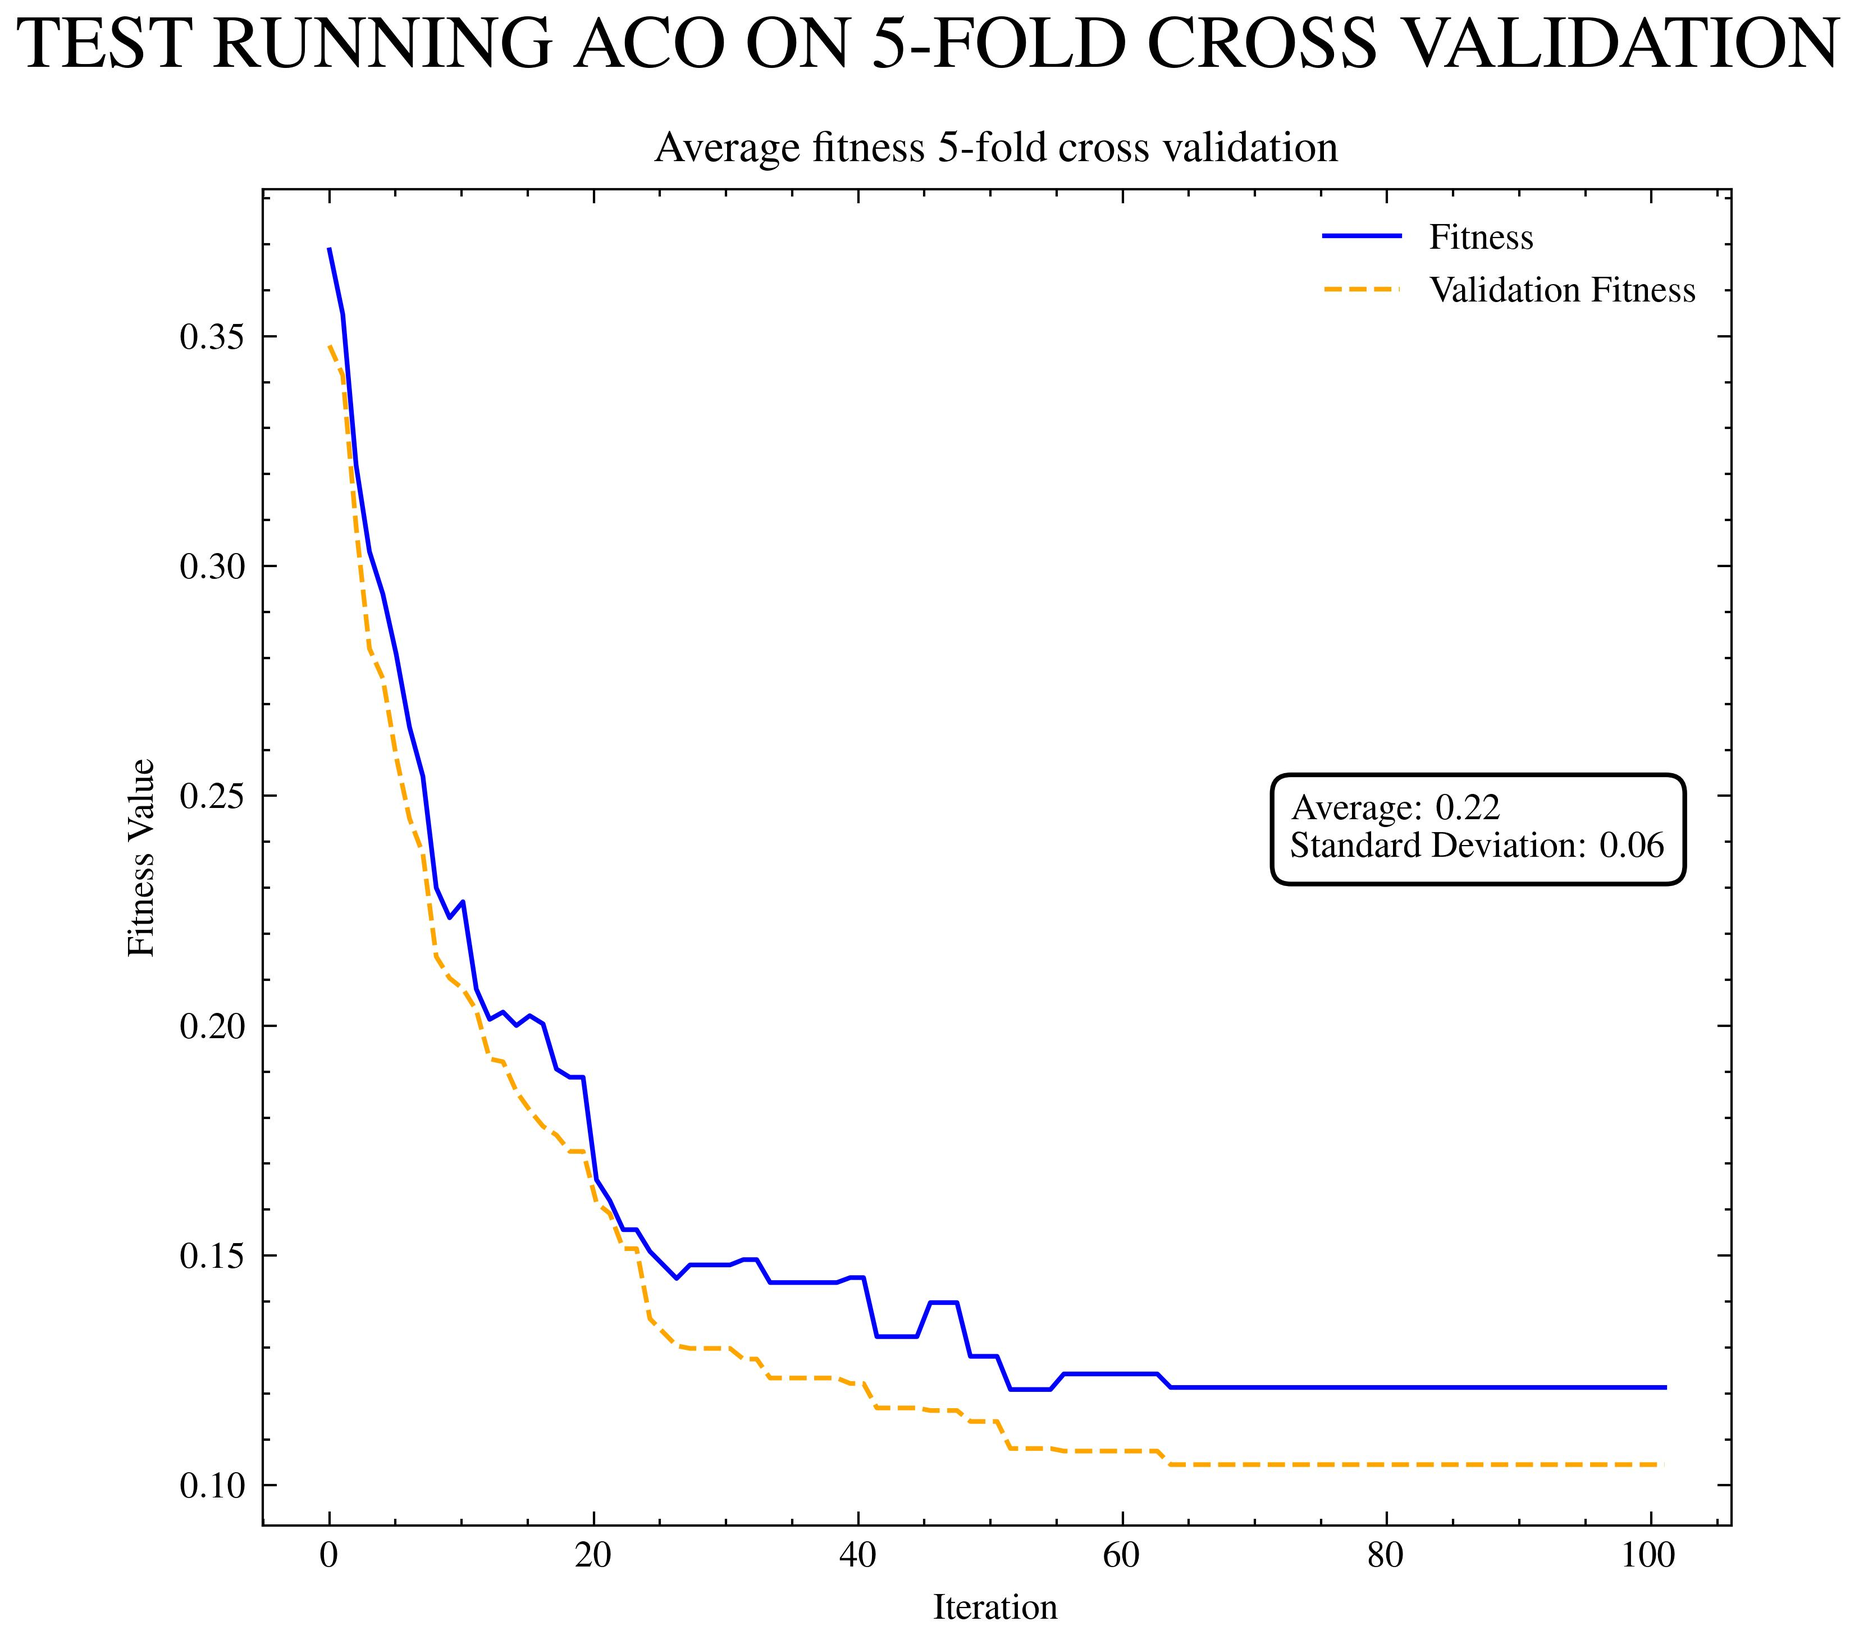
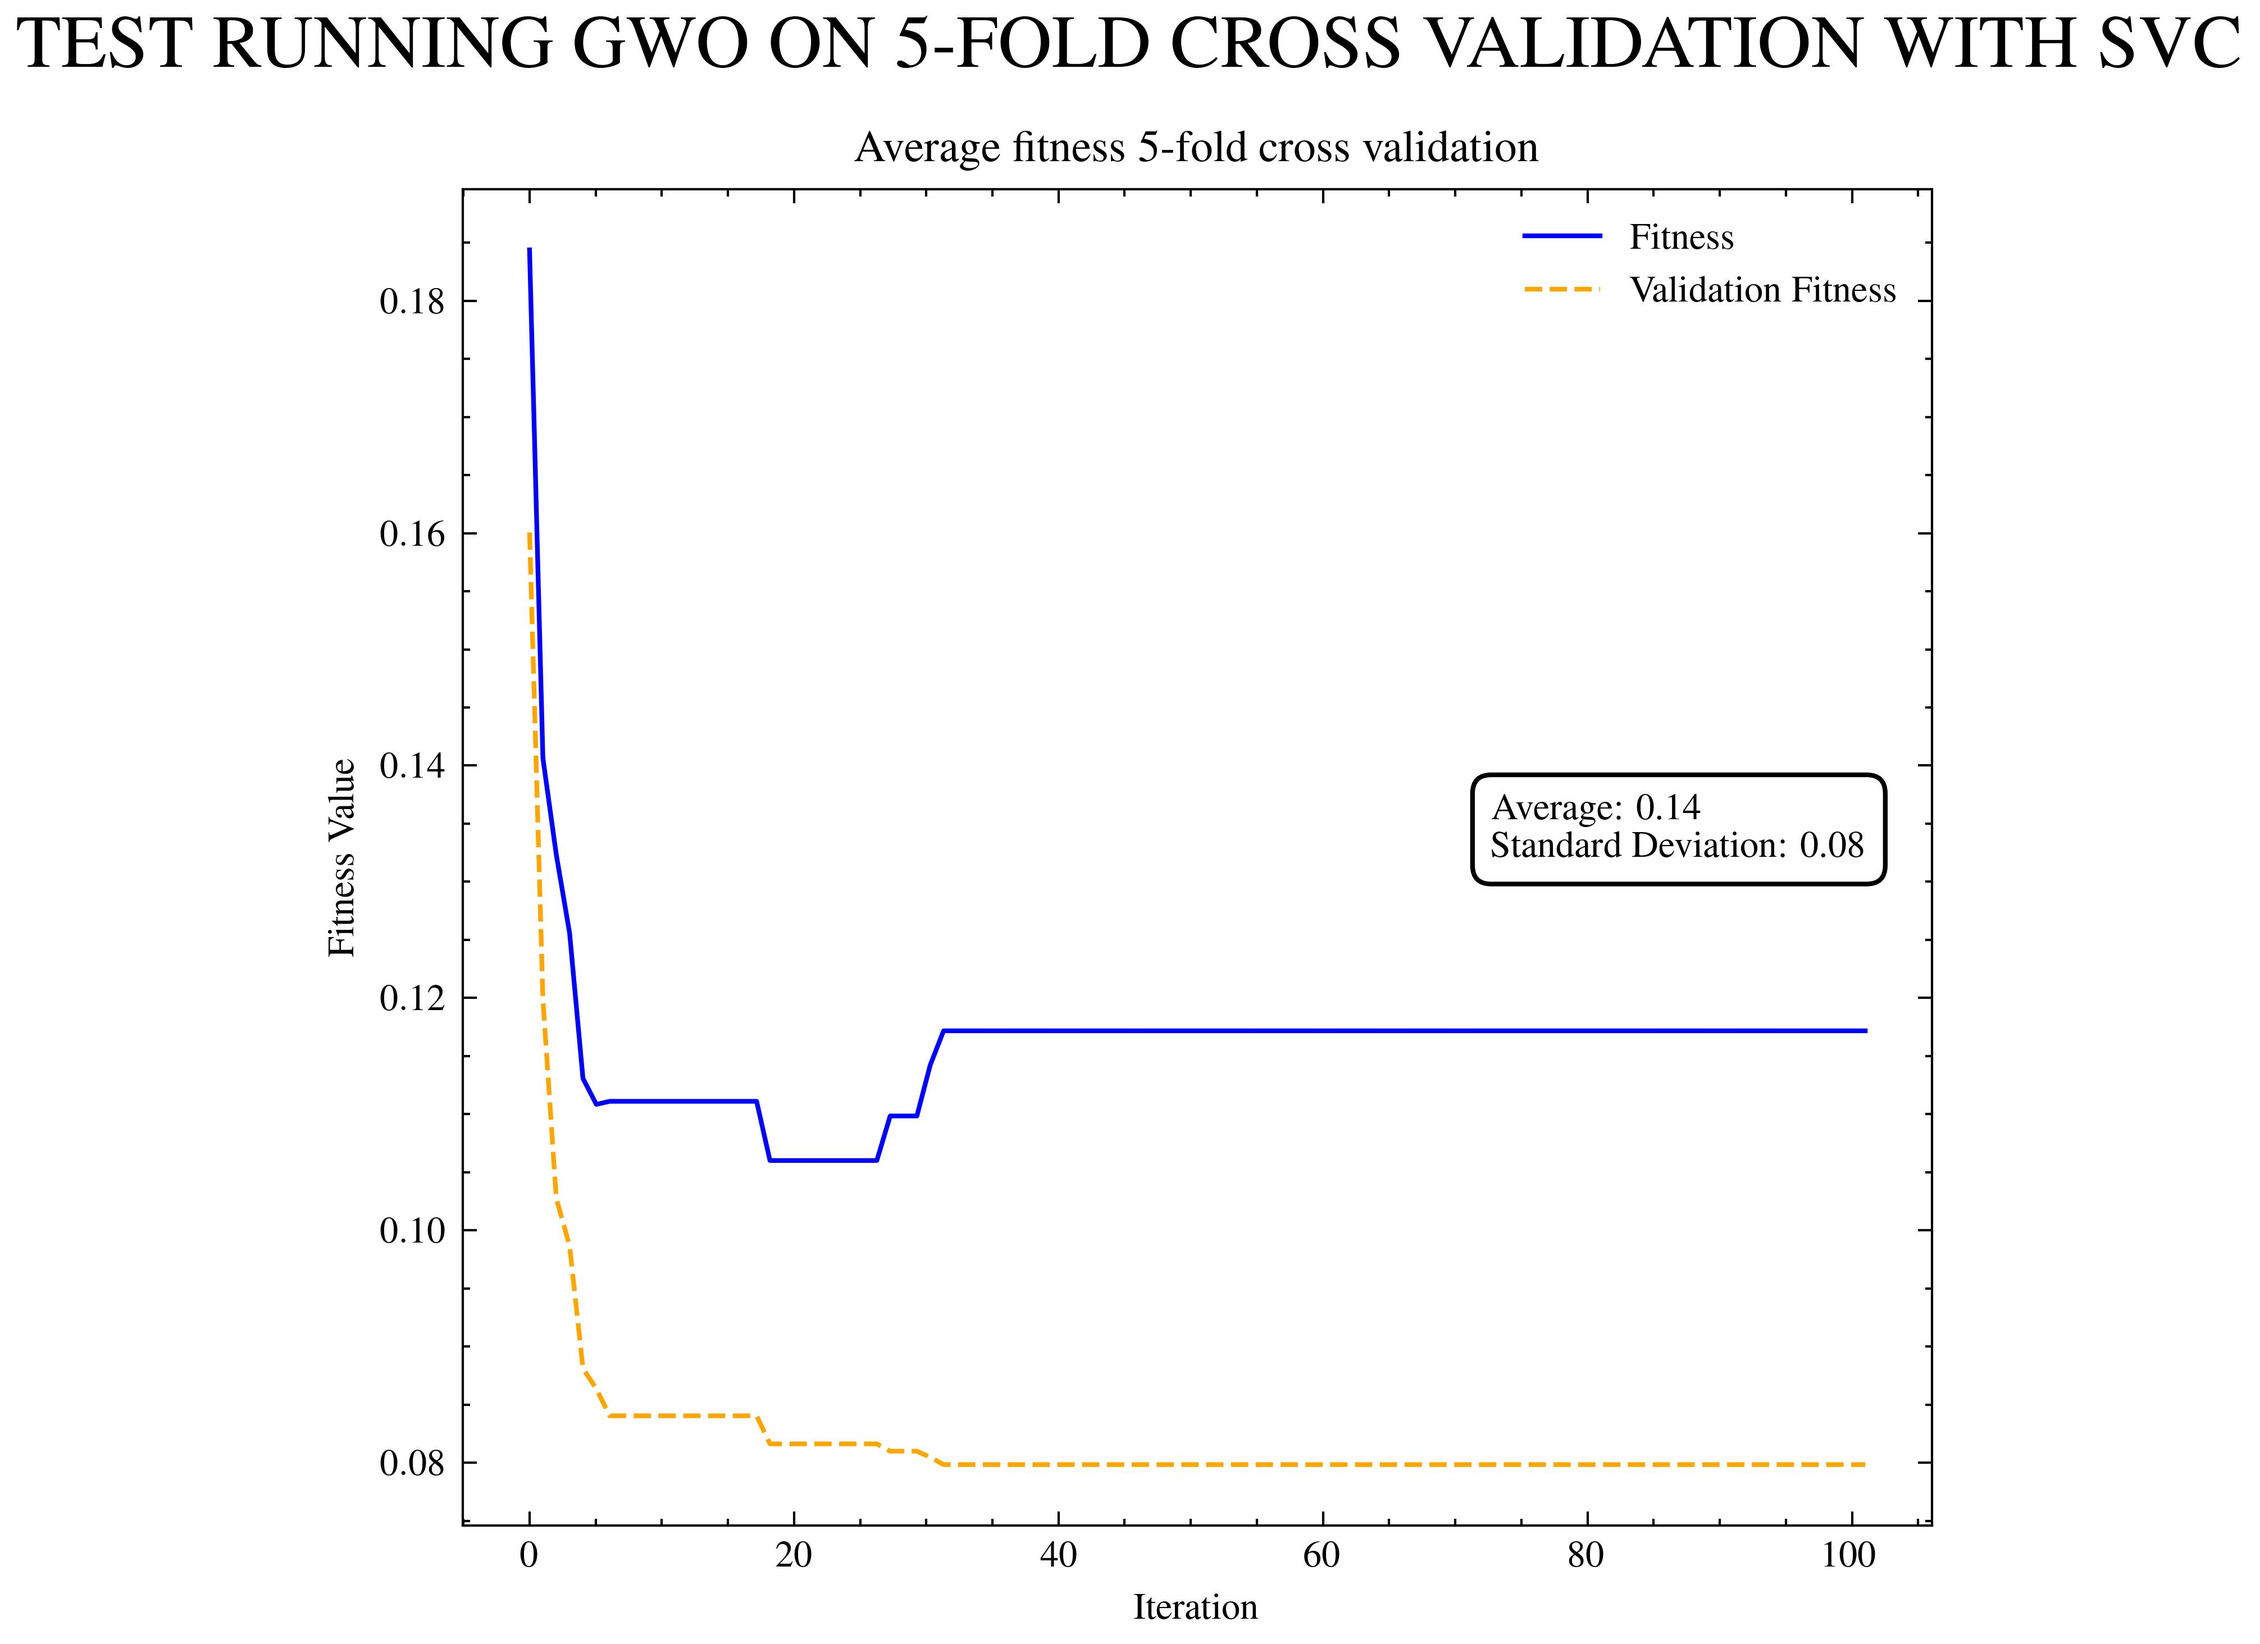
Refactor in analysis_utils.py and minor fixes
Typed parameters in functions for better understanding.
Fix in test_utils.py

diff --git a/src/analysis_utils.py b/src/analysis_utils.py
@@ -6,30 +6,51 @@ from sklearn.model_selection import train_test_split
 import numpy as np
 from constants import *
 from data_utils import *
+from optimizer import Optimizer
 
 # TODO change names of functions
 # TODO add to plot population sizes and optimizer names
 
 
-def compute_accuracy(weights, data, classifier='knn', n_neighbors=5, c=0.1):
+def compute_accuracy(weights: np.ndarray,
+                     data: dict,
+                     classifier_parameters: dict,
+                     classifier: str = 'knn') -> dict:
+    """
+    Functionality to compute the accuracy using KNN or SVC classifier
+
+    Parameters:
+        - weights (np.ndarray): The weights to be used for each feature.
+        - data (dict): The dataset in dict form splitted into samples and labels.
+        - classifier_parameters (dict): The classifier parameters. 
+        - classifier (str, optional): The classifier to be used.
+
+    Returns:
+        - errors (dict): The dictionary containing e_in error and e_out error.
+    """
     sample = data[SAMPLE]
     labels = data[LABELS]
 
+    # Giving each characteristic an importance by multiplying the sample and weights
     sample_weighted = np.multiply(sample, weights)
+    # Split into train and test data
     x_train, x_test, y_train, y_test = train_test_split(sample_weighted,
                                                         labels,
                                                         test_size=0.2,
                                                         random_state=42)
 
     if (classifier == 'knn'):
-        classifier = KNeighborsClassifier(n_neighbors=n_neighbors,
-                                          weights='distance')
+        classifier = KNeighborsClassifier(
+            n_neighbors=classifier_parameters['n_neighbors'],
+            weights=classifier_parameters['weights'])
     elif (classifier == 'svc'):
-        classifier = SVC(C=c, kernel='rbf')
+        classifier = SVC(C=classifier_parameters['C'],
+                         kernel=classifier_parameters['kernel'])
     else:
         print('No valid classifier, using KNN by default')
-        classifier = KNeighborsClassifier(n_neighbors=n_neighbors,
-                                          weights='distance')
+        classifier = KNeighborsClassifier(
+            n_neighbors=classifier_parameters['n_neighbors'],
+            weights=classifier_parameters['weights'])
 
     # Train the classifier
     classifier.fit(x_train, y_train)
@@ -42,17 +63,33 @@ def compute_accuracy(weights, data, classifier='knn', n_neighbors=5, c=0.1):
     return {'TrainError': e_in, 'ValError': e_out}
 
 
-def fitness(weights, data, alpha=0.5, classifier='knn', n_neighbors=5, c=0.1):
+def fitness(weights: np.ndarray,
+            data: dict,
+            classifier_parameters: dict,
+            alpha: float = 0.5,
+            classifier: str = 'knn') -> dict:
+    """
+    Functionality to compute the accuracy using KNN or SVC classifier
+
+    Parameters:
+        - weights (np.ndarray): The weights to be used for each feature.
+        - data (dict): The dataset in dict form splitted into samples and labels.
+        - classifier_parameters (dict): The classifier parameters. 
+        - classifier (str, optional): The classifier to be used.
+        
+    Returns:
+        - fitness (dict): The dictionary containing training fitness and validation fitness.
+    """
+    # Count number of features with zero importance.
     reduction_count = np.sum(weights == 0)
-    weights[weights < 0.1] = 0.0
-    classification_rate = compute_accuracy(weights,
-                                           data=data,
-                                           classifier=classifier,
-                                           n_neighbors=n_neighbors,
-                                           c=c)
+    classification_rate = compute_accuracy(
+        weights,
+        data=data,
+        classifier=classifier,
+        classifier_parameters=classifier_parameters)
     reduction_rate = reduction_count / len(weights)
 
-    # Calculate the error as a percentage
+    # Calculate the error rates in training
     classification_error = 1 - classification_rate['TrainError']
     reduction_error = 1 - reduction_rate
 
@@ -65,16 +102,17 @@ def fitness(weights, data, alpha=0.5, classifier='knn', n_neighbors=5, c=0.1):
     return {'TrainFitness': fitness_train, 'ValFitness': fitness_val}
 
 
-def calculate_average_fitness(fitness_each_fold, fitness_key):
+def calculate_average_fitness(fitness_each_fold: dict,
+                              fitness_key: str) -> list:
     """
     Calculate the average fitness values from a dictionary of fitness values for each fold.
 
     Parameters:
-    - fitness_each_fold: Dictionary of fitness values for each fold.
-    - fitness_key: Key specifying the fitness values to extract ('ValFitness' or 'TrainFitness').
+        - fitness_each_fold (dict): Dictionary of fitness values for each fold.
+        - fitness_key (str): Key specifying the fitness values to extract ('ValFitness' or 'TrainFitness').
 
     Returns:
-    - An array of average fitness values across all folds.
+        - average_fitness_values (list): An array of average fitness values across all folds.
     """
     # Transpose fitness values to have each list represent values for a specific index
     transposed_fitness = np.array([[item[fitness_key] for item in sublist]
@@ -89,7 +127,18 @@ def calculate_average_fitness(fitness_each_fold, fitness_key):
 
 def k_fold_cross_validation(optimizer: object,
                             dataset: Optional[dict] = None,
-                            k: int = 5):
+                            k: int = 5) -> dict:
+    """
+    Implementation of k-fold cross-validation.
+
+    Parameters:
+        - optimizer (object): The optimizer to be used.
+        - dataset (dict, optional): The dataset in dict form.
+        - k (int, optional): The number of folds.
+
+    Returns:
+        - metrics (dict): The dictionary containing metrics of the results.
+    """
     skf = StratifiedKFold(n_splits=k, shuffle=True, random_state=42)
     test_fitness = []
     fitness_each_fold = {}
@@ -125,65 +174,73 @@ def k_fold_cross_validation(optimizer: object,
     # Compute standard deviation of test fitness values
     std_deviation_test_fitness = np.std(test_fitness)
 
-    return test_fitness, {
+    return {
         'TrainFitness': average_fitness_train,
         'ValFitness': average_fitness_val,
         'TestFitness': {
+            'Best': np.max(test_fitness),
             'Average': np.mean(test_fitness),
             'StandardDeviation': std_deviation_test_fitness
         }
     }
 
 
-def population_test(dataset,
-                    optimizer,
-                    k=5,
-                    parameters=None,
-                    target_function_parameters=None):
+def population_test(dataset: dict, optimizer: object, k: int = 5) -> float:
+    """
+    Analysis function to study how fitness variates over different population sizes.
+
+    Parameters:
+        - optimizer (object): The optimizer to be used.
+        - dataset (dict, optional): The dataset in dict form.
+        - k (int, optional): The number of folds.
+
+    Returns:
+        - average_fitness_test (float): The average fitness of the test set.
+    """
     initial_population_size = 5
     max_population_size = 55
     population_size_step = 10
 
-    total_fitness_test = []
+    key = 'generation' if 'generation' in optimizer.params else 'iteration'
+    total_average_fitness_test = []
+    for size in range(initial_population_size, max_population_size + 5,
+                      population_size_step):
+        optimizer.params[key] = size
+        metrics = k_fold_cross_validation(optimizer=optimizer,
+                                          dataset=dataset,
+                                          k=k)
+        total_average_fitness_test.append(metrics['TestFitness']['Average'])
 
-    first_key = next(iter(parameters.keys()))
-    total_fitness_test = [
-        test_fitness for test_fitness, _ in (
-            k_fold_cross_validation(dataset, optimizer, k, {
-                first_key: size,
-                **parameters
-            }, target_function_parameters)
-            for size in range(initial_population_size, max_population_size +
-                              5, population_size_step))
-    ]
-
-    total_fitness_array = np.array(total_fitness_test).T
-    average_fitness_test = np.mean(total_fitness_array, axis=0)
+    average_fitness_test = np.mean(total_average_fitness_test)
 
     return average_fitness_test
 
 
-def optimizer_comparison(dataset,
-                         optimizer_dict,
-                         k=5,
-                         target_function_parameters=None,
-                         max_iterations=30):
+def optimizer_comparison(dataset: dict, k: int = 5) -> dict:
+    """
+    Analysis function to compare different optimizers between each other.
+
+    Parameters:
+        - dataset (dict, optional): The dataset in dict form.
+        - k (int, optional): The number of folds.
+
+    Returns:
+        - optimizers_fitness (dict): The dictionary containing metrics of the results for each optimizer.
+    """
     parameters_dict = {
-        key: get_optimizer_parameters(key, dataset[SAMPLE].shape[1])
-        for key in optimizer_dict.keys()
+        key: Optimizer.get_optimizers_parameters(key, dataset[SAMPLE].shape[1])
+        for key in Optimizer.get_optimizers_names()
     }
     optimizers_fitness = {}
 
-    for key in optimizer_dict.keys():
+    for key in Optimizer.get_optimizers_names():
         fitness_values = []
-        for _ in range(0, max_iterations):
-            _, fitness_val = k_fold_cross_validation(
-                dataset=dataset,
-                optimizer=optimizer_dict[key],
-                k=k,
-                parameters=parameters_dict[key][0],
-                target_function_parameters=target_function_parameters)
-            fitness_values.append(np.array(fitness_val['ValFitness']))
+        for _ in range(0, DEFAULT_MAX_ITERATIONS):
+            metrics = k_fold_cross_validation(dataset=dataset,
+                                              optimizer=Optimizer(
+                                                  key, **parameters_dict[key]),
+                                              k=k)
+            fitness_values.append(np.array(metrics['TestFitness']['Average']))
 
         fitness_values = np.array(fitness_values)
         average_fitness = np.mean(fitness_values, axis=0)

diff --git a/src/test_utils.py b/src/test_utils.py
@@ -27,7 +27,8 @@ def default_parameters(opt: Optional[str] = None,
 
     # Test parameters
     # Load, normalize and split dataset into samples and labels
-    dataset = split_data_to_dict(scaling_min_max(load_arff_data(dataset_path)))
+    dataset = split_data_to_dict(
+        scaling_min_max(scaling_std_score(load_arff_data(dataset_path))))
 
     # Catching optimizer default parameters
     optimizer_parameters = Optimizer.get_default_optimizer_parameters(
@@ -110,25 +111,26 @@ def test_cross_validation(optimizer: object,
         - k (int): The number of folds for cross-validation. Default is 5.
     """
     # Test cross validation
-    test_fitness, fitness_values = k_fold_cross_validation(dataset=dataset,
-                                                           optimizer=optimizer,
-                                                           k=k)
+    metrics = k_fold_cross_validation(dataset=dataset,
+                                      optimizer=optimizer,
+                                      k=k)
 
     print(
         'Average test fitness over {} Folds for {} optimizer ({}): {}'.format(
-            k, DEFAULT_OPTIMIZER,
+            k, optimizer.name,
             optimizer.params['target_function_parameters']['classifier'],
-            round(np.mean(test_fitness), 2)))
+            round(metrics['TestFitness']['Average'])))
 
     # Plotting average fitness over k folds in cross validation
     fig = plt.figure(figsize=(5, 5))
     ax = fig.add_subplot(1, 1, 1)
     plot_fitness_over_folds(
-        fitness_values, optimizer.params['iterations'], k, ax,
+        metrics, optimizer.params['iterations'], k, ax,
         'Average fitness {}-fold cross validation'.format(k))
 
-    fig.suptitle('TEST RUNNING {} ON {}-FOLD CROSS VALIDATION'.format(
-        DEFAULT_OPTIMIZER, k),
+    fig.suptitle('TEST RUNNING {} ON {}-FOLD CROSS VALIDATION WITH {}'.format(
+        optimizer.name, k,
+        optimizer.params['target_function_parameters']['classifier'].upper()),
                  fontweight='bold',
                  fontsize=16)
     plt.tight_layout()
@@ -136,7 +138,7 @@ def test_cross_validation(optimizer: object,
 
 
 if __name__ == "__main__":
-    optimizer = "PSO"
+    optimizer = "GWO"
     """
     fig, axs = plt.subplots(1, 2, figsize=(10, 5))
     plot_s_shaped_transfer_function(axs[0])

diff --git a/src/optimizer.py b/src/optimizer.py
@@ -196,10 +196,12 @@ class Optimizer:
             0.5,
             'classifier':
             SVC_CLASSIFIER,
-            'n_neighbors':
-            DEFAULT_NEIGHBORS,
-            'c':
-            0.1
+            'classifier_parameters': {
+                'n_neighbors': DEFAULT_NEIGHBORS,
+                'weights': 'distance',
+                'C': 1,
+                'kernel': 'rbf'
+            }
         }
 
         return parameters
